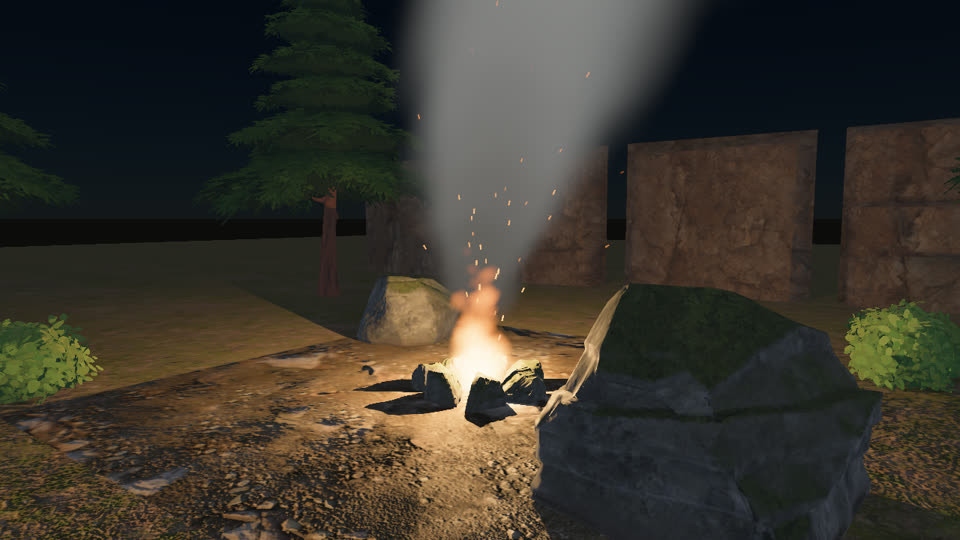
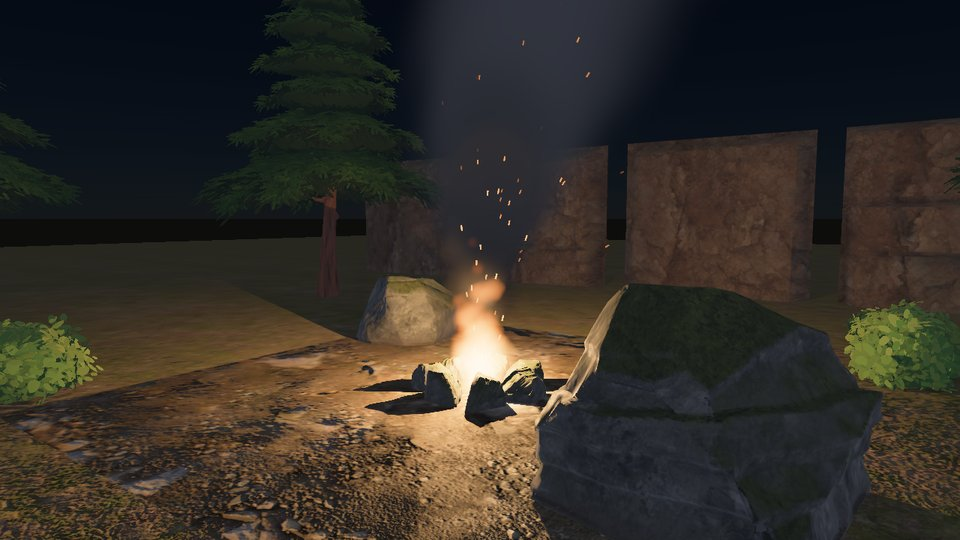
Kit showcase: re-render on the current kits and measure on the RTX 3060 Ti
Re-renders the scene images, the recordings and the soft-particle comparisons from the kits
fetch-kits.sh pins since #156, now with lit and fogged particles (#84). The measurements move
from lavapipe to the RTX: about 0.8 us of CPU per emitter (1000 emitters: 1.09 ms), and a flat
0.31-0.36 ms of CPU from 1k to 1M particles.

diff --git a/docs/particle-kit-showcase.md b/docs/particle-kit-showcase.md
@@ -58,12 +58,13 @@ Recordings (1.5 s at 30 fps, every second 1/60 s step):
   (sphere and box positions, velocity ranges, constant acceleration, size and colour over life,
   velocity-aligned streaks, round masks).
 - CPU cost does not grow with particle count. The simulation is one compute pass and each
-  emitter is one indirect draw, so a frame's engine calls cost 1.0 to 1.8 ms (median) from 1k
-  to 1M particles.
+  emitter is one indirect draw, so a frame's engine calls cost 0.31 to 0.36 ms (median, RTX
+  3060 Ti) from 1k to 1M particles.
 
-## What the kit scenes show is missing
+## What the first kit scenes showed was missing
 
-These are visible in the images above. Each is a follow-up slice.
+These were visible in the first renders of the showcase. Each became a follow-up slice, and the
+images above now show 1–3 fixed (soft, lit and fogged particles).
 
 1. **Hard edges against geometry.** The fire's base, the smoke and the mist cut a straight
    line where their quads cross the ground and the rocks, as in bevy_hanabi (D9). Most visible
@@ -74,9 +75,10 @@ These are visible in the images above. Each is a follow-up slice.
    the rock's shadow. The particle colour is written as-is, with no lights, shadows or exposure.
 3. **No fog on particles.** In `rain` and `snow` the far streaks and flakes stay crisp through
    fog that hides the crag faces behind them.
-4. **Many small emitters are expensive on the CPU** (scaling below): about 25 µs per emitter
-   per frame, so 1000 burst emitters cost 25 ms. Each emitter is a draw, a 768-byte step
-   upload and a texture bind group created every frame (`ParticleFrame::prepare`).
+4. **Many small emitters are expensive on the CPU**: about 25 µs per emitter per frame on
+   lavapipe under WSL2, before #85, so 1000 burst emitters cost 25 ms. Each emitter is a draw
+   and a 768-byte step upload. On the RTX 3060 Ti with the current engine, it is about 0.8 µs
+   (1000 emitters: 1.09 ms, scaling below).
 5. **No velocity cone.** asset-tooling's presets emit in a cone (`direction`, `spread`), and
    hanabi's init modifiers have none, so the showcase approximated it with a box of
    velocities. Since #87 the presets use `InitModifier::VelocityCone` (oracle
@@ -97,11 +99,12 @@ in those PRs.
 frames without it. Left hard, right soft, same seeds and steps:
 
 ![Campfire, hard and soft](particle-kit-showcase/soft_campfire.jpg)
-![Waterfall spray, hard and soft](particle-kit-showcase/soft_waterfall.jpg)
-![Rain mist, hard and soft](particle-kit-showcase/soft_rain.jpg)
+![Waterfall sheet and spray, hard and soft](particle-kit-showcase/soft_waterfall.jpg)
 
-The fire's base no longer cuts a flat line across the stones, and the spray and mist meet the
-rocks and ground without an edge. The other oracle particle scenarios still pass on lavapipe
+The fire's base no longer cuts a flat line across the stones, and the falling sheet and spray
+meet the crag face and the ground without an edge. Since the mist is lit and fogged (#84), the
+rain's ground mist shows no visible edge either way: hard and soft differ by at most 10 steps,
+in 19 pixels. Its comparison image was dropped. The other oracle particle scenarios still pass
 (default path, no fade).
 
 ## Lit and fogged particles (#84)
@@ -110,8 +113,9 @@ rocks and ground without an edge. The other oracle particle scenarios still pass
 waterfall spray and precipitation are lit (`ParticleLighting::diffuse()`) and fogged; the fire,
 embers and magic cloud stay unlit and are fogged; the burst presets keep hanabi's default. The
 oracle scenario `particles_lit_fog` gates the shading against Bevy `StandardMaterial` quads
-(D9). These kit images have not been re-rendered with it yet (the kit bundles were not
-available when it landed).
+(D9). The images above are rendered with it (2026-11-23, RTX 3060 Ti). At night the smoke
+now takes the moonlight and exposure instead of glowing grey against the sky, and the rain and
+snow fade into the fog with the crag faces behind them.
 
 ## The kits on WebGL 2 (#126)
 
@@ -182,70 +186,73 @@ the GPU's alive-list order, which comes from atomics, as hanabi does (D9). The w
 replay draws in slot order. Lavapipe happens to keep slot order, so it matched there: native
 lavapipe against this NVIDIA web frame differs by at most 6 steps. NVIDIA does not keep it.
 This is the draw-order difference D9 already judges statistically, not a difference in the port.
-The scenery kits were the current releases rather than `fetch-kits.sh`'s pins, which no longer
-match the replaced rolling releases. `--plain` draws none of them. The effect kits match their
-pins.
 
 ## Measurements
 
-**Adapter:** llvmpipe (lavapipe, LLVM 21, software Vulkan) under WSL2. This machine has no
-hardware adapter wgpu can use: the GL backend rejects the lit shader, and there is no
-Vulkan-on-D3D12 driver. GPU times below are therefore **advisory**, as D4 rules for lavapipe:
-they measure a CPU rasteriser. CPU times are real, but lavapipe shares the same 8 cores. The
-GPU numbers need a rerun on the RTX 3060 Ti.
+**Adapter:** NVIDIA GeForce RTX 3060 Ti (Vulkan, driver 595.99.02) on the owner's desktop (Linux
+7.0, Ryzen 7 5700X), 2026-11-23, with the kits `fetch-kits.sh` pins since #156. 240 frames are
+timed per scene. Each run is one process, and the timings are evidence, not a gate. The earlier
+figures were measured on lavapipe under WSL2, before #85's per-emitter work. They are in this
+file's history.
 
 CPU is one frame's engine calls (`step_particles`, `prepare`, `encode`, submit), without the
-wait for the GPU. Particle GPU memory is 140 bytes per slot (particle 64, quad 64, dead slot and
-two alive-list entries 12). The step upload is 16 bytes plus 768 per emitter, every step.
-Draws are particle / main-pass mesh / shadow.
+wait for the GPU. GPU time is from timestamp queries: the particle simulation and the whole
+frame. Particle GPU memory is 140 bytes per slot (particle 64, quad 64, dead slot and two
+alive-list entries 12). The step upload is 16 bytes plus 768 per emitter, every step. Draws are
+particle / main-pass mesh / shadow.
 
 ### Scenes (1280×720, 4× MSAA, after warm-up)
 
-| Scene | Alive | Emitters | Draws | Particle memory | Step upload | CPU ms median / max | GPU ms sim / frame (advisory) |
+| Scene | Alive | Emitters | Draws | Particle memory | Step upload | CPU ms median / p95 | GPU ms sim / frame median / frame p95 |
 | --- | --- | --- | --- | --- | --- | --- | --- |
-| `campfire_day` | 227 | 3 | 3 / 17 / 132 | 0.07 MB | 2,320 B | 1.09 / 10.12 | 1.1 / 1002 |
-| `campfire_night` | 234 | 3 | 3 / 17 / 52 | 0.07 MB | 2,320 B | 0.54 / 7.65 | 1.0 / 581 |
-| `combat_bursts` | 34 | 4 | 4 / 14 / 76 | 0.01 MB | 3,088 B | 1.05 / 2.65 | 2.7 / 1001 |
-| `zoo_bursts` | 37 | 3 | 3 / 14 / 76 | 0.01 MB | 2,320 B | 1.60 / 1.85 | 2.4 / 1003 |
-| `rain` | 57,633 | 2 | 2 / 19 / 75 | 8.43 MB | 1,552 B | 1.19 / 7.92 | 4.7 / 974 |
-| `snow` | 57,751 | 2 | 2 / 19 / 75 | 8.43 MB | 1,552 B | 1.19 / 1.82 | 13.7 / 1781 |
-| `waterfall` | 4,164 | 5 | 5 / 6 / 24 | 0.90 MB | 3,856 B | 1.53 / 2.08 | 2.1 / 938 |
-| `magic_cloud` | 154,293 | 1 | 1 / 16 / 0 | 28.00 MB | 784 B | 0.50 / 2.62 | 14.6 / 727 |
+| `campfire_day` | 221 | 3 | 3 / 17 / 132 | 0.07 MB | 2,320 B | 0.46 / 0.48 | 0.016 / 2.39 / 2.51 |
+| `campfire_night` | 226 | 3 | 3 / 17 / 52 | 0.07 MB | 2,320 B | 0.36 / 0.42 | 0.016 / 1.74 / 1.86 |
+| `combat_bursts` | 0–35 | 4 | 4 / 14 / 76 | 0.01 MB | 3,088 B | 0.27 / 0.34 | 0.012 / 1.34 / 1.47 |
+| `zoo_bursts` | 36 | 3 | 3 / 14 / 76 | 0.01 MB | 2,320 B | 0.28 / 0.34 | 0.012 / 1.36 / 1.49 |
+| `rain` | 57,632 | 2 | 2 / 19 / 75 | 8.43 MB | 1,552 B | 0.34 / 0.38 | 0.096 / 2.58 / 2.61 |
+| `snow` | 57,751 | 2 | 2 / 19 / 75 | 8.43 MB | 1,552 B | 0.34 / 0.39 | 0.095 / 2.37 / 2.42 |
+| `waterfall` | 4,190 | 5 | 5 / 6 / 24 | 0.90 MB | 3,856 B | 0.26 / 0.30 | 0.022 / 1.73 / 1.78 |
+| `magic_cloud` | 154,193 | 1 | 1 / 16 / 0 | 28.00 MB | 784 B | 0.17 / 0.22 | 0.229 / 1.30 / 1.30 |
 
-On lavapipe only 6 frames are timed per scene (it renders about one frame a second), so the
-maxima are single frames, mostly first-frame and scheduling outliers.
+Alive is read after the timed frames. The burst scenes repeat every 0.6 s with shorter
+lifetimes, so their count depends on that moment: `combat_bursts` had 35 alive at the screenshot
+and none after the timing. The simulation is at most 0.23 ms, even with 154k particles. The rest
+of each frame is drawing: scenery, shadows and the particle quads, which were not timed
+separately.
 
 ### Particle count (one rain emitter in the glade)
 
-| Particles (alive) | CPU ms median / max | Particle memory | GPU ms sim / frame (advisory) |
+| Particles (alive) | CPU ms median / p95 | Particle memory | GPU ms sim / frame |
 | --- | --- | --- | --- |
-| 1k (958) | 1.09 / 18.39 | 0.14 MB | 0.9 / 687 |
-| 10k (9.6k) | 1.01 / 2.37 | 1.4 MB | 2.6 / 1080 |
-| 100k (96k) | 1.74 / 2.64 | 14 MB | 9.4 / 954 |
-| 300k (287k) | 1.51 / 4.89 | 42 MB | 54.3 / 3297 |
-| 1M (958k) | 1.82 / 6.39 | 140 MB | 86.0 / 4246 |
+| 1k (958) | 0.31 / 0.34 | 0.14 MB | 0.015 / 1.57 |
+| 10k (9.6k) | 0.31 / 0.33 | 1.4 MB | 0.025 / 1.60 |
+| 100k (96k) | 0.31 / 0.34 | 14 MB | 0.149 / 2.02 |
+| 300k (287k) | 0.35 / 0.40 | 42 MB | 0.417 / 2.92 |
+| 1M (958k) | 0.36 / 0.64 | 140 MB | 1.351 / 6.10 |
 
-The CPU side is flat. Memory is linear at 140 B per slot: a 1M-slot pool is 140 MB, which
-matters on 8 GB cards and in the browser. The GPU columns only show that the work grows with
-count; their size says nothing about a real GPU.
+The CPU side is flat. The simulation grows about linearly from 100k particles (1.35 ms for
+958k), and the frame grows with it (6.10 ms at 1M slots). Memory is linear at 140 B per
+slot: a 1M-slot pool is 140 MB, which matters on 8 GB cards and in the browser.
 
 ### Emitter count (the combat `spark` burst at n places)
 
-| Emitters | CPU ms median / max | Step upload | GPU ms sim (advisory) |
+| Emitters | CPU ms median / p95 | Step upload | GPU ms sim / frame |
 | --- | --- | --- | --- |
-| 1 | 0.74 / 5.98 | 784 B | 0.66 |
-| 10 | 1.24 / 2.88 | 7.7 KB | 0.51 |
-| 100 | 3.40 / 9.04 | 77 KB | 0.98 |
-| 500 | 11.57 / 15.58 | 384 KB | 1.47 |
-| 1000 | 25.29 / 36.83 | 768 KB | 0.88 |
+| 1 | 0.31 / 0.45 | 784 B | 0.009 / 1.55 |
+| 10 | 0.33 / 0.46 | 7.7 KB | 0.014 / 1.56 |
+| 100 | 0.39 / 0.57 | 77 KB | 0.044 / 1.59 |
+| 500 | 0.76 / 1.04 | 384 KB | 0.191 / 1.75 |
+| 1000 | 1.09 / 1.26 | 768 KB | 0.382 / 1.95 |
 
-Per emitter: about 24 µs of CPU and 768 B of upload per frame, whether or not the emitter has
-live particles. This is the first CPU limit a game reaches: hit effects in a crowd fight are
-many small emitters, not one big one.
+Per emitter: about 0.8 µs of CPU, 0.38 µs of GPU simulation and 768 B of upload per frame,
+whether or not the emitter has live particles. On lavapipe before #85 it was about 24 µs of
+CPU. Many small emitters are still where cost grows first. A crowd fight's hit effects are
+many small emitters, but 1000 of them now fit in about 1 ms of CPU.
 
 ## Not verified
 
-- GPU time on a hardware adapter, and the D3 GPU-time gate (no hardware adapter here).
+- GPU time on other hardware: the numbers above are one RTX 3060 Ti. Integrated and mobile
+  GPUs were not measured.
 - The full kit scenes in the browser: only the combat and zoo bursts ran on WebGL 2, over a plain
   background ([above](#the-kits-on-webgl-2-126)); the terrain, props, rain, snow, fire and
   waterfall scenes were not rendered there, nor any kit scene through the WebGPU build.
